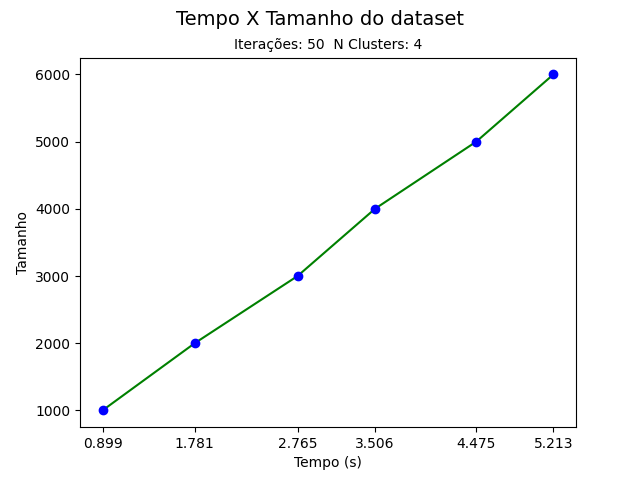
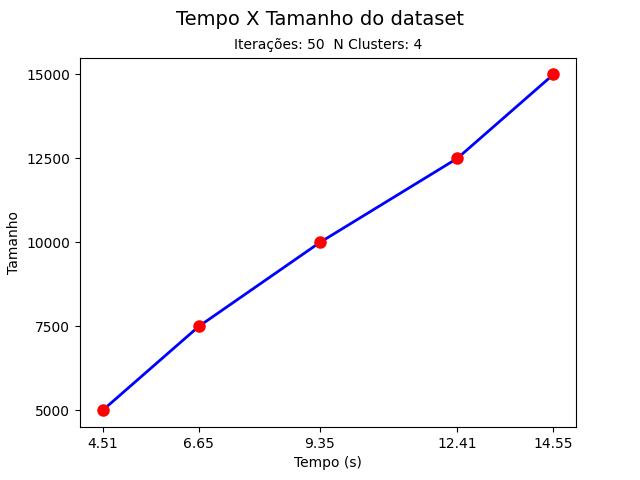
ajustes

diff --git a/tests/test_setup.py b/tests/test_setup.py
@@ -110,9 +110,9 @@ class KMeansTestCase:
     for fname in OUTPUTS:
       open(fname, 'w').close()
       
-    EXECUTION_TIMES = 3
+    EXECUTION_TIMES = 1
 
-    sample_data_lengths = [1000, 2000, 3000, 4000, 5000, 6000]
+    sample_data_lengths = [5000, 7500, 10000, 12500, 15000]
     NUM_COLUMNS = 2
     sample_data = [self.__generate_fake_data(NUM_COLUMNS, y) for y in sample_data_lengths]
 
@@ -127,7 +127,7 @@ class KMeansTestCase:
     print('testing with different n_clusters')
     print('data size: ', sample_data_lengths[0])
     # testando com diferentes números de clusters
-    for n_clusters in [4, 8, 12]:
+    for n_clusters in [4, 6, 8, 10, 12]:
       print('current: ', n_clusters)
       model = KMeans(n_clusters=n_clusters, iterations=50)
       self.performance_test(OUTPUTS[1], sample_data[0], EXECUTION_TIMES, model)
@@ -135,13 +135,12 @@ class KMeansTestCase:
     if (charts):
       for fname in OUTPUTS:
         f = np.loadtxt(fname).T
-        print(f[0])
 
         fig, ax = plt.subplots()
         if 'nclusters' in fname:
           plt.suptitle("Tempo X Quantidade de  clusters\n", fontsize=14)
           plt.title("Iterações: {}  Tamanho dataset: {}".format(int(f[2][0]), int(f[3][0])), fontsize=10)
-          plt.bar(f[1], f[0], align='center', width=2)
+          plt.bar(f[1], f[0], width=1.2, color="purple")
           plt.xlabel("N Clusters")
           plt.xticks(f[1])
           plt.ylabel("Tempo (s)")
@@ -149,11 +148,12 @@ class KMeansTestCase:
         else:
           plt.suptitle("Tempo X Tamanho do dataset\n", fontsize=14)
           plt.title("Iterações: {}  N Clusters: {}".format(int(f[2][0]), int(f[1][0])), fontsize=10)
-          plt.plot(f[0], f[3], '-o', color='green', mfc='b', mec='b', markersize=6)
+          plt.plot(f[0], f[3], '-o', color='blue', mfc='r', mec='r', markersize=8, linewidth=2)
           plt.ylabel("Tamanho")
           plt.xticks(f[0])
           plt.xlabel("Tempo (s)")
-        # ax.legend()
+          plt.yticks(f[3])
+
         plt.savefig(fname + '.png')
     
 
